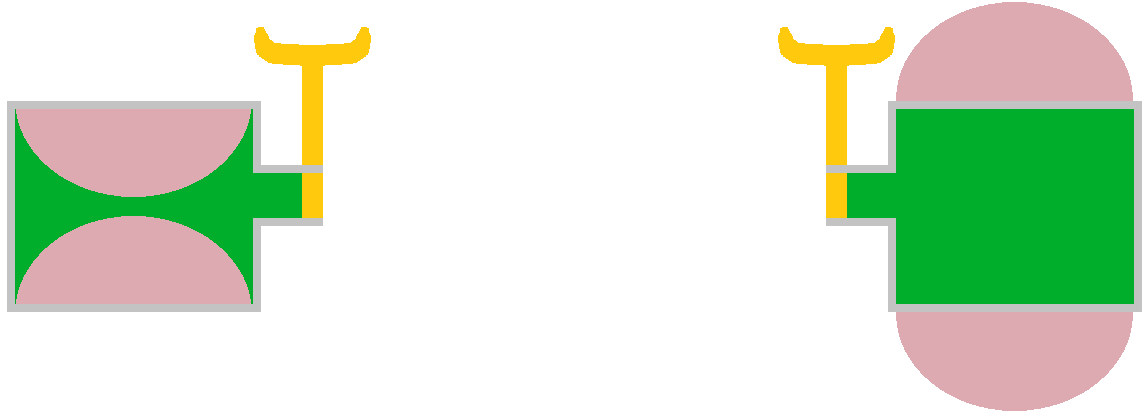
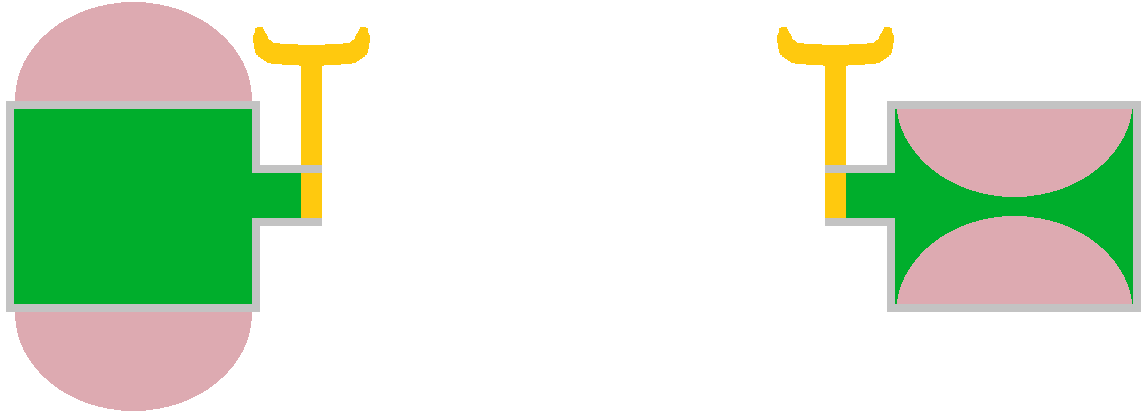
Add files via upload

diff --git a/book4.html b/book4.html
@@ -283,7 +283,7 @@ Next, let's fill these containers with green liquid — with green water, for ex
 <img src="lc_00000.png" height="200">
 </center>
 <br>
-Next, by some tool let's suck some green liquid from one container and inject some green liquid into other container:
+Next, by some tool let's inject some green liquid into one container and suck some green liquid from other container:
 <br><br>
 <center>
 <img src="lc_0000.png" height="200">
